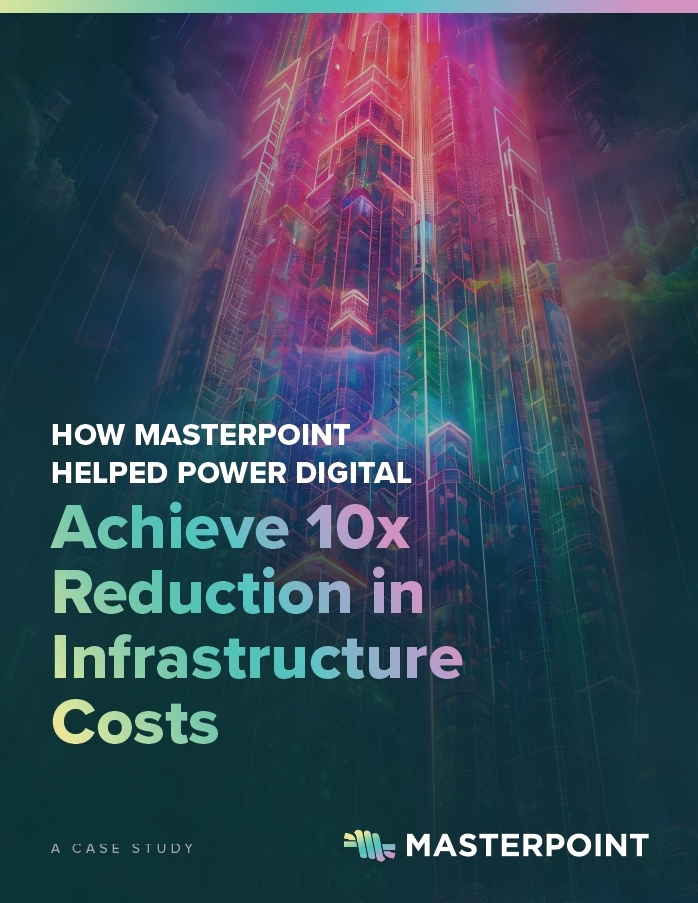
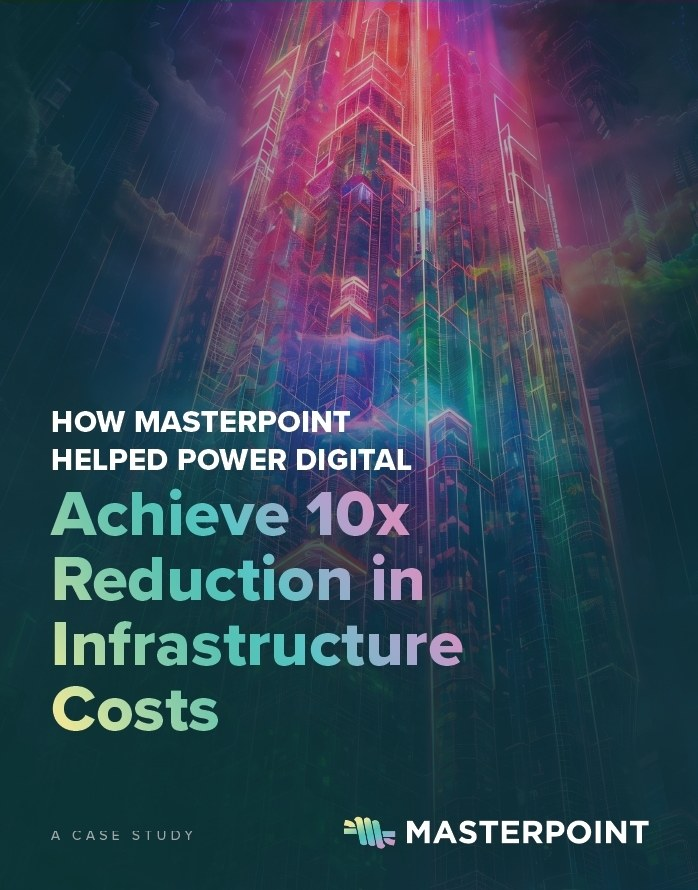
fix: stop case-study hover accent bar overflowing rounded corners (#161)

diff --git a/assets/css/custom.scss b/assets/css/custom.scss
@@ -3450,29 +3450,16 @@ footer {
       box-shadow: 0 14px 32px -22px rgba(0, 0, 0, 0.7);
       transition: transform 0.24s ease, box-shadow 0.24s ease, border-color 0.24s ease;
 
-      // brand accent bar down the left edge, revealed on hover
-      &::before {
-        content: "";
-        position: absolute;
-        left: 0;
-        top: 0;
-        bottom: 0;
-        width: 4px;
-        z-index: 2;
-        background: linear-gradient(180deg, #2ad9c2, #55c1b4 45%, #d191bf);
-        opacity: 0;
-        transition: opacity 0.24s ease;
-      }
-
+      // No left-edge accent bar: the preview image is flush to the left edge, so
+      // any bar would paint over ("spill" onto) the preview on hover. Hover
+      // feedback comes from the lift + brighter border + deeper shadow + image
+      // zoom + arrow slide instead — nothing overlaps the card content.
       &:hover,
       &:focus-visible {
         transform: translateY(-3px);
         border-color: rgba(42, 217, 194, 0.45);
         box-shadow: 0 22px 44px -26px rgba(0, 0, 0, 0.85);
 
-        &::before {
-          opacity: 1;
-        }
         .cs-card__media img {
           transform: scale(1.05);
         }
@@ -3554,15 +3541,6 @@ footer {
       .cs-card {
         flex-direction: column;
         min-height: 0;
-
-        &::before {
-          left: 0;
-          right: 0;
-          top: 0;
-          bottom: auto;
-          width: auto;
-          height: 4px;
-        }
       }
       .cs-card__media {
         flex: none;
